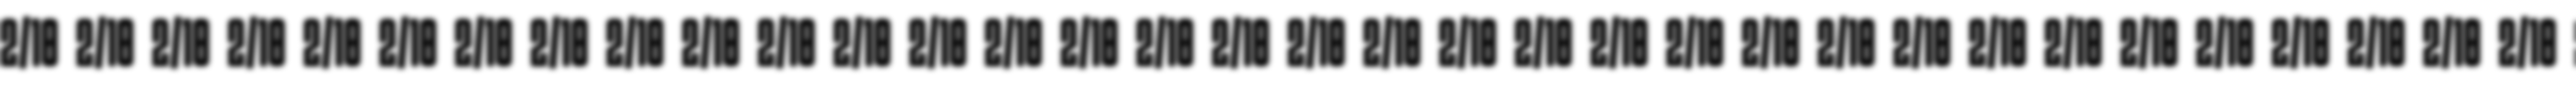
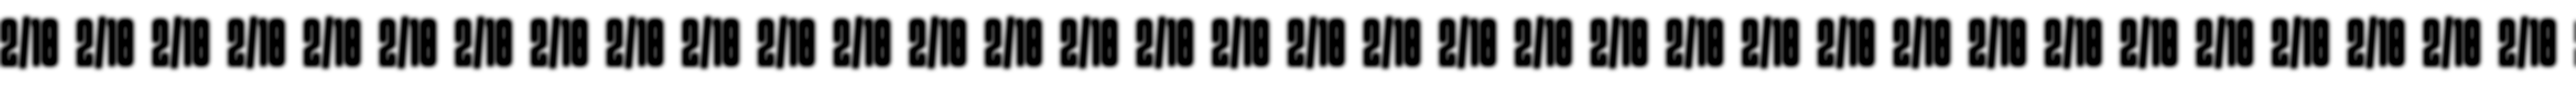
Poster: 2/10 rows back to the earlier strength (full opacity, crisper pre-blur)

diff --git a/public/poster/index.html b/public/poster/index.html
@@ -45,7 +45,7 @@ html, body { margin: 0; width: 100%; height: 100%; background: #000; overflow: h
     // 2/10 rows: one shared image strip per row, two loops wide; fade towards the top is a fixed opacity per row
     var host = document.getElementById('rows'), loop = L.rowLoop;
     for (var i = 0; i < 17; i++) {
-      var y = i * 116 - 36, a = Math.max(0, Math.min(1, (y / 1920 - .16) / .46)) * .72;
+      var y = i * 116 - 36, a = Math.max(0, Math.min(1, (y / 1920 - .16) / .46));
       if (a <= 0.01) continue;
       var row = document.createElement('div'); row.className = 'row';
       row.style.top = y + 'px'; row.style.width = Math.ceil(loop * 2) + 'px'; row.style.opacity = a.toFixed(3);

diff --git a/tools/poster_assets.py b/tools/poster_assets.py
@@ -51,7 +51,7 @@ strip = Image.new('L', (strip_w, 160), 0); sd = ImageDraw.Draw(strip)
 x = 0.0
 while x < strip_w:
     sd.text((x, 16), unit_txt, font=f, fill=255); x += unit
-strip = strip.filter(ImageFilter.GaussianBlur(5))
+strip = strip.filter(ImageFilter.GaussianBlur(4)).point(lambda v: min(255, round(v * 1.2)))   # matches CSS blur(5px) on live text
 row = Image.new('RGBA', strip.size, (0, 0, 0, 0)); row.putalpha(strip)
 row.save(OUT / 'row.png', optimize=True)
 
